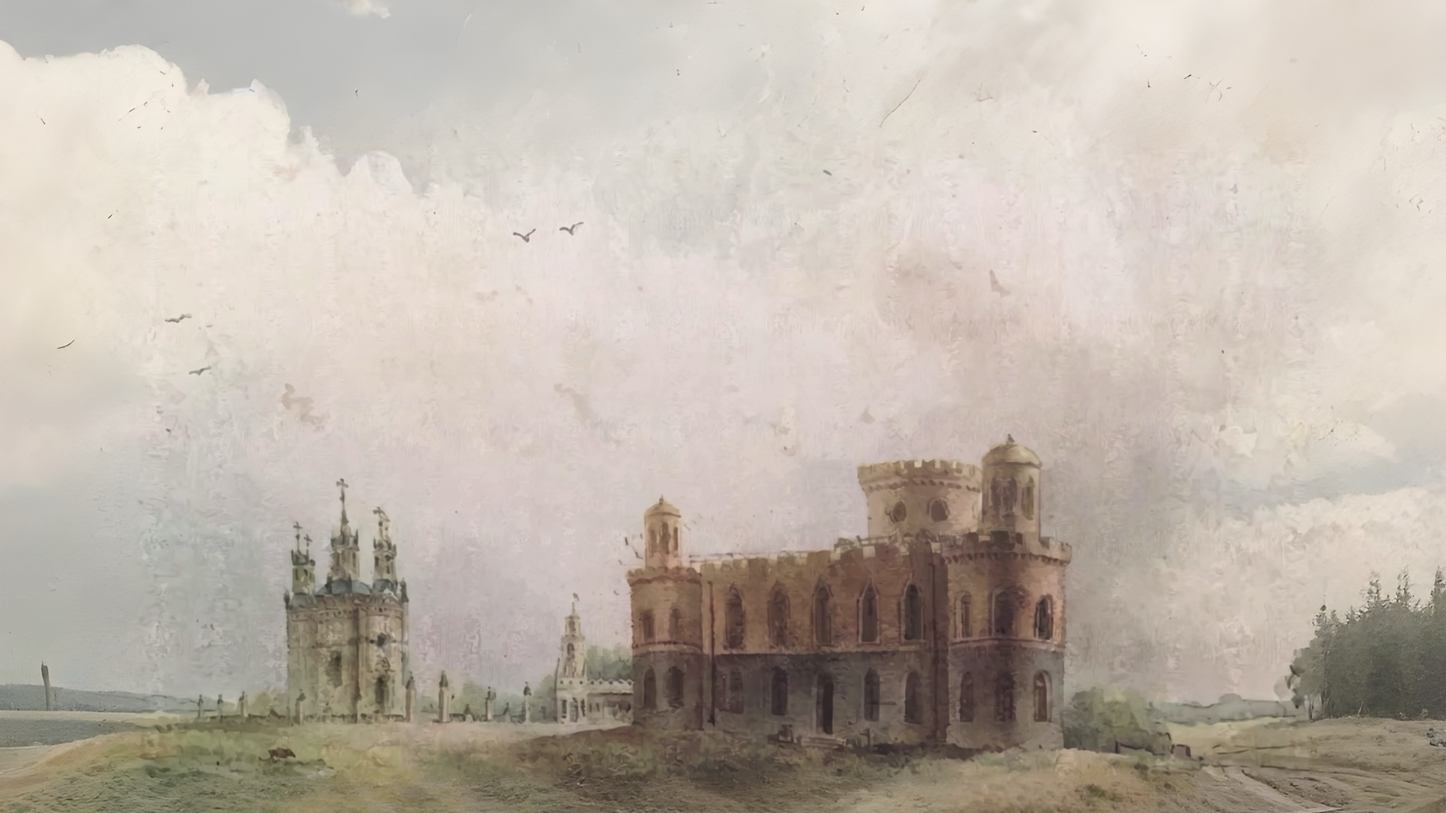
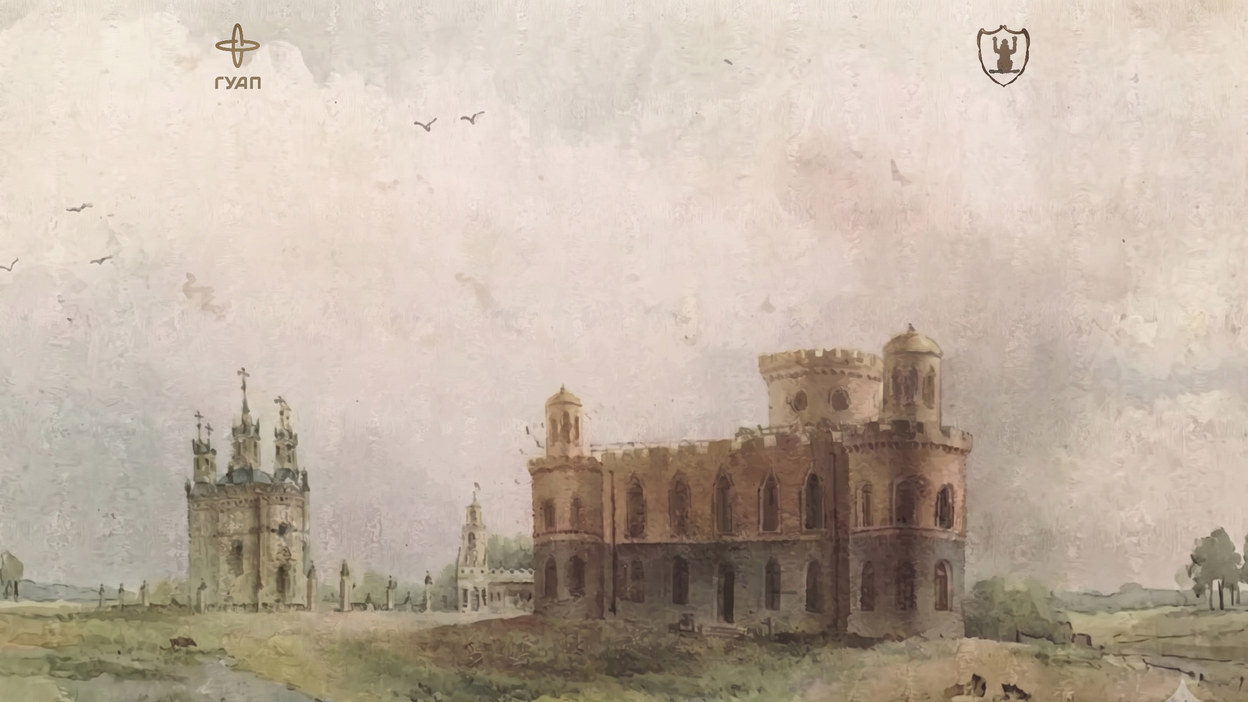
start scene

diff --git a/style.css b/style.css
@@ -704,24 +704,23 @@ body.view-control-buttons .viewControlButton {
 .floorplan-image {width: 100%; max-height: 200px;}
 }
 
-/* === СТАРТОВЫЙ ЭКРАН (КНОПКА ПОВЕРХ КАРТИНКИ) === */
+/* Стартовый экран */
 #intro-screen {
     position: fixed;
     top: 0;
     left: 0;
     width: 100vw;
     height: 100vh;
-    z-index: 20000; /* Поднимаем весь экран наверх */
+    z-index: 20000;
     background: #000;
     display: flex;
-    flex-direction: column; /* Элементы идут сверху вниз */
-    align-items: center; /* Центрируем окно и кнопку по горизонтали */
-    justify-content: flex-start; /* Центрируем окно и кнопку по вертикали */
-    padding-top: 20px;
+    flex-direction: column;
+    align-items: center;
+    justify-content: center; 
+    gap: 40px; 
     transition: opacity 0.8s ease;
 }
 
-/* КРИТИЧЕСКОЕ ИСПРАВЛЕНИЕ: Картинка уходит в глубокий фон и никому не мешает */
 .intro-img {
     position: absolute;
     top: 0;
@@ -730,64 +729,73 @@ body.view-control-buttons .viewControlButton {
     height: 100%;
     object-fit: cover;
     display: block;
-    z-index: 19999; /* Картинка строго ПОД текстом и ПОД кнопкой */
+    z-index: 19999;
 }
 
-#introInfoModal {
-    width: 90%;
-    max-width: 1024px;
-    display: flex;
-    flex-direction: column;
-    z-index: 20005; /* Окно гарантированно НАД картинкой */
+.intro-title-container {
+    z-index: 20005;
+    text-align: center;
+    padding: 30px 50px;
+    background: rgba(29, 29, 31, 0.75); 
+    backdrop-filter: blur(10px); 
+    -webkit-backdrop-filter: blur(10px);
+    border-radius: 15px;
+    box-shadow: 0 20px 50px rgba(0, 0, 0, 0.5);
+    max-width: 80%;
 }
 
-    #introInfoModal .intro-info-header {
-        position: relative;
-        width: 100%;
-        min-height: 50px;
-        background-color: rgba(29, 29, 31, 0.95);
-        padding: 0 20px;
-        display: flex;
-        align-items: center;
-        justify-content: center;
-        border-radius: 5px 5px 0 0;
-    }
+/* Главный заголовок (Чесменский дворец) */
+.intro-main-title {
+    font-size: 48px;
+    font-weight: bold;
+    color: #f7f8fc;
+    margin: 0 0 15px 0;
+    text-transform: uppercase;
+    letter-spacing: 2px;
+    font-family: "Helvetica Neue", Helvetica, Arial, sans-serif;
+}
 
-    #introInfoModal .intro-info-text {
-        width: 100%;
-        max-height: 55vh;
-        overflow-y: auto;
-        padding: 30px;
-        background-color: rgba(35, 35, 38, 0.95);
-        border-radius: 0 0 5px 5px;
-        color: #f7f8fc;
-        text-align: justify;
-        text-indent: 1.5em;
-        line-height: 1.6em;
-        box-sizing: border-box;
-    }
+/* Подзаголовок экскурсии */
+.intro-sub-title {
+    font-size: 20px;
+    color: #ccc;
+    margin: 0;
+    line-height: 1.4em;
+    font-style: italic;
+}
 
+/* Кнопка "Начать путешествие" */
 .intro-button {
-    position: absolute;
-    top: 82%;
-    left: 50%;
-    transform: translate(-50%, -50%);
-    z-index: 20010; /* Кнопка на самом верхнем слое, чтобы кликалась */
-
-    padding: 14px 36px;
-    font-size: 16px;
+    z-index: 20010;
+    padding: 16px 45px;
+    font-size: 18px;
+    font-weight: bold;
     color: #fff;
-    background: rgba(103, 115, 131, 0.9);
+    background: rgba(103, 115, 131, 0.95);
     border-radius: 30px;
     text-decoration: none;
     cursor: pointer;
-    transition: background 0.3s, transform 0.2s;
+    box-shadow: 0 5px 15px rgba(0, 0, 0, 0.3);
+    transition: background 0.3s, transform 0.2s, box-shadow 0.3s;
 }
 
-    .intro-button:hover {
-        background: rgba(103, 115, 131, 1);
-        transform: translate(-50%, -50%) scale(1.05);
-    }
+.intro-button:hover {
+    background: rgba(103, 115, 131, 1);
+    transform: scale(1.05);
+    box-shadow: 0 8px 25px rgba(103, 115, 131, 0.5);
+}
+
+.intro-author-note {
+    font-size: 11px; 
+    color: rgba(255, 255, 255, 0.4); 
+    margin-top: 25px; 
+    margin-bottom: 0; 
+    font-weight: normal;
+    letter-spacing: 0.5px;
+    text-transform: none;
+    border-top: 1px solid rgba(255, 255, 255, 0.1); 
+    padding-top: 15px; 
+}
 
 .fade-out {
     opacity: 0;

diff --git a/index.html b/index.html
@@ -21,30 +21,11 @@
     </div>
     <div id="intro-screen">
         <img class="intro-img" src="img/intro.jpg">
-        <div id="introInfoModal">
-            <div class="intro-info-header">
-                <div class="scene-info-title-wrapper">
-                    <div class="scene-info-title">Виртуальная экскурсия по Чесменскому дворцу</div>
-                </div>
-            </div>
-            <div class="intro-info-text">
-                <div class="content-block">
-                    <p class="content-text">Добро пожаловать на виртуальную экскурсию по Чесменскому дворцу! Во время виртуальной экскурсии вы сможете:<br>
-
-                        1. <strong>«Перемещаться» по маршруту.</strong> Для перемещения нажимайте на маркеры перехода на панорамах для последовательного осмотра залов;<br>
-
-                        2. <strong>Выбирать локации самостоятельно.</strong> Откройте карту в боковом меню и выберите нужный зал для мгновенного перехода;<br>
-
-                        3. <strong>Осматривать пространство на 360 градусов.</strong> Зажмите левую кнопку мыши (или удерживайте палец на экране смартфона) и вращайте изображение в любую сторону;<br>
-
-                        4. <strong>Изучать информацию об объектах.</strong> Читайте текстовые описания и просматривайте дополнительные медиаматериалы о локации и экспонатах;<br>
-
-                        5. <strong>Прослушивать аудиогид.</strong> Для управления звуковым сопровождением используйте интерактивный плеер в правом нижнем углу экрана;<br>
-
-                        6. <strong>Использовать режим виртуальной реальности (VR).</strong> Активируйте VR-режим в меню настроек и используйте специализированные очки или VR-гарнитуру.
-                    </p>
-                </div>
-            </div>
+        <div class="intro-title-container">
+            <h1 class="intro-main-title">Чесменский дворец</h1>
+            <p class="intro-sub-title">Виртуальная экскурсия: от лягушачьего болота до авиационного университета</p>
+            <p class="intro-author-note">Проект выполнен в рамках выпускной квалификационной работы студентки гр. 4243 Шебеко Д.Д.</p>
+        </div>
         </div>
         <a href="javascript:void(0)" class="intro-button">Начать просмотр тура</a>
     </div>

diff --git a/data.js b/data.js
@@ -1,49 +1,49 @@
 var APP_DATA = {
   "scenes": [
-    //{
-    //    "id": "0-image",
-    //    "name": "Пролог",
-    //      "sceneInfo": {
-    //          "title": "Виртуальная экскурсия по Чесменскому дворцу",
-    //          "content": [
-    //              {
-    //                  "type": "text",
-    //                  "text": TXTS.prolog
-    //              }
-
-    //          ]
-    //      },
-    //    "levels": [
-    //        {
-    //            "tileSize": 256,
-    //            "size": 256,
-    //            "fallbackOnly": true
-    //        },
-    //        {
-    //            "tileSize": 512,
-    //            "size": 512
-    //        },
-    //        {
-    //            "tileSize": 512,
-    //            "size": 1024
-    //        }
-    //    ],
-    //    "faceSize": 1024,
-    //    "initialViewParameters": {
-    //        "yaw": -2.1163153196731663,
-    //        "pitch": -0.025189127392902577,
-    //        "fov": 1.391813623840451
-    //    },
-    //      "linkHotspots": [
-    //          {
-    //              "yaw": -2.0,
-    //              "pitch": 0.11827129524185054,
-    //              "rotation": 12.566370614359176,
-    //              "target": "0--"
-    //          }
-    //      ],
-    //    "infoHotspots": []
-    //},
+    {
+        "id": "0-image",
+          "name": "Пролог",
+          "audioGuide": "audio/prolog.mp3",
+          "sceneInfo": {
+              "title": "Виртуальная экскурсия по Чесменскому дворцу",
+              "content": [
+                  {
+                      "type": "text",
+                      "text": TXTS.prolog
+                  }
+              ]
+          },
+        "levels": [
+            {
+                "tileSize": 256,
+                "size": 256,
+                "fallbackOnly": true
+            },
+            {
+                "tileSize": 512,
+                "size": 512
+            },
+            {
+                "tileSize": 512,
+                "size": 1024
+            }
+        ],
+        "faceSize": 1024,
+        "initialViewParameters": {
+            "yaw": -2.1163153196731663,
+            "pitch": -0.025189127392902577,
+            "fov": 1.391813623840451
+        },
+          "linkHotspots": [
+              {
+                  "yaw": -2.0,
+                  "pitch": 0.11827129524185054,
+                  "rotation": 12.566370614359176,
+                  "target": "0--"
+              }
+          ],
+        "infoHotspots": []
+    },
         {
             "id": "0--",
             "name": "Исторический вход",
